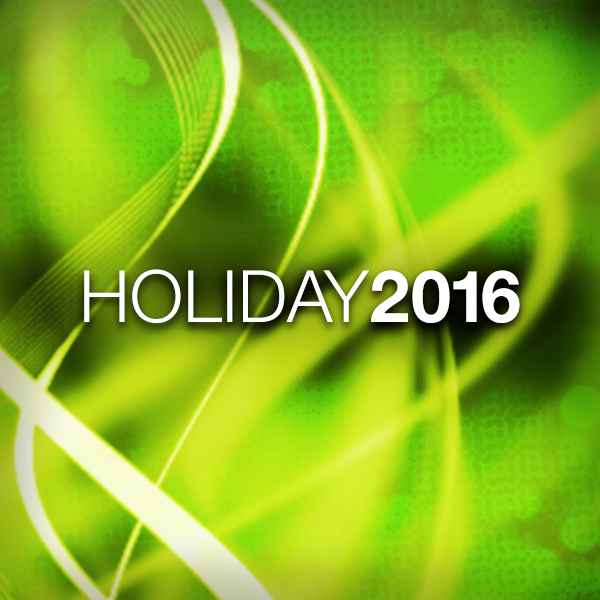
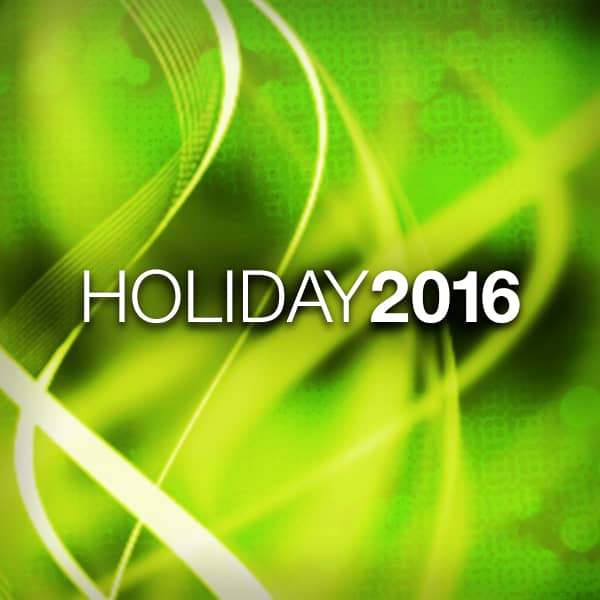
2019 update
Compress images
added 2019 mix link, image, and dropbox file

diff --git a/index.html b/index.html
@@ -18,7 +18,7 @@
 	<meta name="viewport" content="width=device-width; initial-scale=1.0">
 
 	<link rel="shortcut icon" type="image/ico" href="images/favicon.ico"/>
-	<link rel="icon" type="image/gif" href="images/favicon.gif"/>
+	<link rel="<em></em>icon" type="image/gif" href="images/favicon.gif"/>
 	<link rel="apple-touch-icon" href="">
 	<link href="css/style.css" media="screen" rel="stylesheet" type="text/css">
 
@@ -42,13 +42,29 @@
 	</header>
 	
 	<section class="group">
-		<h1>Holiday 2018</h1>
-		<a href="https://www.dropbox.com/s/9ejse7tectp68rg/Holiday_2018.zip?dl=0"><img alt="Holiday 2018" src="images/holiday_2018.jpg"></a>
+		<h1>Holiday 2019</h1>
+		<a href="https://www.dropbox.com/s/5pl9yd682vilr18/Holiday_2019.zip?raw=1"><img alt="Holiday 2019" src="images/holiday_2019.jpg"></a>
 		<div class="wrapper">
 
 			<section id="download" class="block">
 
-				<form action="https://www.dropbox.com/s/9ejse7tectp68rg/Holiday_2018.zip?">
+				<form action="https://www.dropbox.com/s/5pl9yd682vilr18/Holiday_2019.zip?raw=1">
+				<input class="button" type="submit" name="submit" value="Download" />
+				</form>
+
+			</section>
+
+		</div>
+	</section>
+	
+	<section class="group">
+		<h1>Holiday 2018</h1>
+		<a href="https://www.dropbox.com/s/9ejse7tectp68rg/Holiday_2018.zip?raw=1"><img alt="Holiday 2018" src="images/holiday_2018.jpg"></a>
+		<div class="wrapper">
+
+			<section id="download" class="block">
+
+				<form action="https://www.dropbox.com/s/9ejse7tectp68rg/Holiday_2018.zip?raw=1">
 				<input class="button" type="submit" name="submit" value="Download" />
 				</form>
 
@@ -59,12 +75,12 @@
 
 	<section class="group">
 		<h1>Holiday 2017</h1>
-		<a href="https://www.dropbox.com/s/5dcp640lny3u6kt/Holiday_2017.zip?dl=0"><img alt="Holiday 2017" src="images/holiday_2017.jpg"></a>
+		<a href="https://www.dropbox.com/s/5dcp640lny3u6kt/Holiday_2017.zip?raw=1"><img alt="Holiday 2017" src="images/holiday_2017.jpg"></a>
 		<div class="wrapper">
 
 			<section id="download" class="block">
 
-				<form action="https://www.dropbox.com/s/5dcp640lny3u6kt/Holiday_2017.zip?">
+				<form action="https://www.dropbox.com/s/5dcp640lny3u6kt/Holiday_2017.zip?raw=1">
 				<input class="button" type="submit" name="submit" value="Download" />
 				</form>
 
@@ -75,12 +91,12 @@
 	
 	<section class="group">
 		<h1>Holiday 2016</h1>
-		<a href="https://www.dropbox.com/s/menqedqsj6rijkt/Holiday_2016.zip?dl=0"><img alt="Holiday 2016" src="images/holiday_2016.jpg"></a>
+		<a href="https://www.dropbox.com/s/menqedqsj6rijkt/Holiday_2016.zip?raw=1"><img alt="Holiday 2016" src="images/holiday_2016.jpg"></a>
 		<div class="wrapper">
 
 			<section id="download" class="block">
 
-				<form action="https://www.dropbox.com/s/menqedqsj6rijkt/Holiday_2016.zip?">
+				<form action="https://www.dropbox.com/s/menqedqsj6rijkt/Holiday_2016.zip?raw=1">
 				<input class="button" type="submit" name="submit" value="Download" />
 				</form>
 
@@ -91,12 +107,12 @@
 	
 	<section class="group">
 		<h1>Holiday 2015</h1>
-		<a href="https://www.dropbox.com/s/up1hhlq05dlxhua/Holiday_2015.zip?dl=0"><img alt="Holiday 2015" src="images/holiday_2015.jpg"></a>
+		<a href="https://www.dropbox.com/s/up1hhlq05dlxhua/Holiday_2015.zip?raw=1"><img alt="Holiday 2015" src="images/holiday_2015.jpg"></a>
 		<div class="wrapper">
 
 			<section id="download" class="block">
 
-				<form action="https://www.dropbox.com/s/up1hhlq05dlxhua/Holiday_2015.zip?">
+				<form action="https://www.dropbox.com/s/up1hhlq05dlxhua/Holiday_2015.zip?raw=1">
 				<input class="button" type="submit" name="submit" value="Download" />
 				</form>
 
@@ -107,12 +123,12 @@
 	
 	<section class="group">
 		<h1>Holiday 2014</h1>
-		<a href="https://dl.dropboxusercontent.com/u/1910319/Holiday/music/Holiday_2014.zip"><img alt="Holiday 2014" src="images/holiday_2014.jpg"></a>
+		<a href="https://www.dropbox.com/s/rq96bf4ami8ktko/Holiday_2014.zip?raw=1"><img alt="Holiday 2014" src="images/holiday_2014.jpg"></a>
 		<div class="wrapper">
 
 			<section id="download" class="block">
 
-				<form action="https://www.dropbox.com/s/rq96bf4ami8ktko/Holiday_2014.zip?">
+				<form action="https://www.dropbox.com/s/rq96bf4ami8ktko/Holiday_2014.zip?raw=1">
 				<input class="button" type="submit" name="submit" value="Download" />
 				</form>
 
@@ -123,12 +139,12 @@
 	
 	<section class="group">
 		<h1>Holiday 2013</h1>
-		<a href="https://www.dropbox.com/s/pbats2rat8gh7r6/Holiday_2013.zip?dl=0"><img alt="Holiday 2013" src="images/holiday_2013.jpg"></a>
+		<a href="https://www.dropbox.com/s/pbats2rat8gh7r6/Holiday_2013.zip?raw=1"><img alt="Holiday 2013" src="images/holiday_2013.jpg"></a>
 		<div class="wrapper">
 
 			<section id="download" class="block">
 
-				<form action="https://www.dropbox.com/s/pbats2rat8gh7r6/Holiday_2013.zip?">
+				<form action="https://www.dropbox.com/s/pbats2rat8gh7r6/Holiday_2013.zip?raw=1">
 				<input class="button" type="submit" name="submit" value="Download" />
 				</form>
 
@@ -139,12 +155,12 @@
 	
 	<section class="group">
 		<h1>Holiday 2012</h1>
-		<a href="https://www.dropbox.com/s/faa1emxb572yg8t/Holiday_2012.zip?dl=0"><img alt="Holiday 2012" src="images/holiday_2012.jpg"></a>
+		<a href="https://www.dropbox.com/s/faa1emxb572yg8t/Holiday_2012.zip?raw=1"><img alt="Holiday 2012" src="images/holiday_2012.jpg"></a>
 		<div class="wrapper">
 
 			<section id="download" class="block">
 
-				<form action="https://www.dropbox.com/s/faa1emxb572yg8t/Holiday_2012.zip?">
+				<form action="https://www.dropbox.com/s/faa1emxb572yg8t/Holiday_2012.zip?raw=1">
 				<input class="button" type="submit" name="submit" value="Download" />
 				</form>
 
@@ -155,12 +171,12 @@
 	
 	<section class="group">
 		<h1>Holiday 2011</h1>
-		<a href="https://www.dropbox.com/s/v622om9498kjbxr/Holiday_2011.zip?dl=0"><img alt="Holiday 2011" src="images/holiday_2011.jpg"></a>
+		<a href="https://www.dropbox.com/s/v622om9498kjbxr/Holiday_2011.zip?raw=1"><img alt="Holiday 2011" src="images/holiday_2011.jpg"></a>
 		<div class="wrapper">
 
 			<section id="download" class="block">
 
-				<form action="https://www.dropbox.com/s/v622om9498kjbxr/Holiday_2011.zip?">
+				<form action="https://www.dropbox.com/s/v622om9498kjbxr/Holiday_2011.zip?raw=1">
 				<input class="button" type="submit" name="submit" value="Download" />
 				</form>
 
@@ -171,12 +187,12 @@
 	
 	<section class="group">
 		<h1>Holiday 2010</h1>
-		<a href="https://www.dropbox.com/s/4voiimmqfgswu5a/Holiday_2010.zip?dl=0"><img alt="Holiday 2010" src="images/holiday_2010.jpg"></a>
+		<a href="https://www.dropbox.com/s/4voiimmqfgswu5a/Holiday_2010.zip?raw=1"><img alt="Holiday 2010" src="images/holiday_2010.jpg"></a>
 		<div class="wrapper">
 
 			<section id="download" class="block">
 
-				<form action="https://www.dropbox.com/s/4voiimmqfgswu5a/Holiday_2010.zip?">
+				<form action="https://www.dropbox.com/s/4voiimmqfgswu5a/Holiday_2010.zip?raw=1">
 				<input class="button" type="submit" name="submit" value="Download" />
 				</form>
 
@@ -187,12 +203,12 @@
 	
 	<section class="group">
 		<h1>Holiday 2009</h1>
-		<a href="https://www.dropbox.com/s/rkt17u8dg1pa1yq/Holiday_2009.zip?dl=0"><img alt="Holiday 2009" src="images/holiday_2009.jpg"></a>
+		<a href="https://www.dropbox.com/s/rkt17u8dg1pa1yq/Holiday_2009.zip?raw=1"><img alt="Holiday 2009" src="images/holiday_2009.jpg"></a>
 		<div class="wrapper">
 
 			<section id="download" class="block">
 
-				<form action="https://www.dropbox.com/s/rkt17u8dg1pa1yq/Holiday_2009.zip?dl=0">
+				<form action="https://www.dropbox.com/s/rkt17u8dg1pa1yq/Holiday_2009.zip?raw=1">
 				<input class="button" type="submit" name="submit" value="Download" />
 				</form>
 
